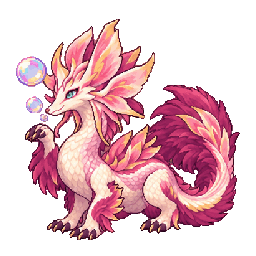
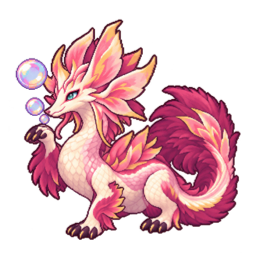
🐛 fix: 修正泡狐龍與冰呪龍動畫的多餘前腳

Changed region(s): [[0.0625, 0.0625, 0.9375, 0.9375]]

diff --git a/docs/artwork-repairs.md b/docs/artwork-repairs.md
@@ -1,0 +1,62 @@
+# Artwork repairs
+
+## 2026-10-22 — duplicate forelegs
+
+Reviewed all 96 source frames (8 monsters × 3 actions × 4 frames). Fixed duplicated grounded
+forelegs in Mizutsune's four working frames and Velkhana's third waiting frame. The other
+91 frames were retained after visual inspection.
+
+The five edits used the built-in image generation tool with the existing frames as edit targets.
+Outputs were resampled to 256 × 256 with alpha preserved, aligned to the original visible height
+and ground baseline. Frame counts, timing, and character scale metadata remain unchanged.
+
+### Prompts
+
+#### `Resources/Characters/mizutsune/working/0.png`
+
+```text
+Use case: precise-object-edit
+Asset type: a corrected single animation frame for an existing pixel-art desktop pet
+Input image 1 is the EDIT TARGET: Mizutsune working frame 0. Input image 2 is an ANATOMY REFERENCE ONLY: the same character with the correct lifted-foreleg anatomy.
+Task: Correct ONLY the duplicated front leg in image 1. The left foreleg is already raised beside the mouth. The erroneous extra grounded foreleg is still visible underneath the left side of the chest, with a small planted foot to the LEFT of the large nearer planted forepaw. Delete that obsolete lower leg and its three-clawed ground foot, exposing transparent background. In the 256 x 256 input this erroneous leg/foot is roughly x=46..79, y=188..234. Match the clean two-foreleg anatomy of image 2: ONE forepaw raised beside the face, ONE forepaw planted at the bottom center with the pink fin, and the hind legs remain at the rear.
+Strict invariants: keep the exact target image's face, eyes, mouth, crest, whiskers, pink/cream/yellow colors, pixel-art texture, neck, back, curled tail, raised arm, existing planted nearer foreleg, rear haunch and rear foot, and BOTH bubbles completely unchanged. Keep the same pose, silhouette extent, scale, canvas position, and baseline. Do not import the different head pose or missing bubbles from image 2. Preserve transparency. Do not add a fourth visible paw or substitute a new foot in the deleted space. Only delete the duplicated foreleg and clean its junction to the chest. No text, no labels, no borders, no background, no ground shadow. Return exactly one square transparent sprite matching image 1's framing, ideally 256 x 256.
+```
+
+#### `Resources/Characters/mizutsune/working/1.png`
+
+```text
+Use case: precise-object-edit
+Asset type: a corrected single animation frame for an existing pixel-art desktop pet
+Input image 1 is the EDIT TARGET: Mizutsune working frame 1. Input image 2 is an ANATOMY REFERENCE ONLY: the same character with the correct lifted-foreleg anatomy.
+Task: Correct ONLY the duplicated front leg in image 1. Preserve the distinctive bubble sizes and positions of this target frame exactly. The left foreleg is already raised beside the mouth. The erroneous extra grounded foreleg is still visible underneath the left side of the chest, with a small planted foot to the LEFT of the large nearer planted forepaw. Delete that obsolete lower leg and its three-clawed ground foot, exposing transparent background. In the 256 x 256 input this erroneous leg/foot is roughly x=46..79, y=188..234. Match the clean two-foreleg anatomy of image 2: ONE forepaw raised beside the face, ONE forepaw planted at the bottom center with the pink fin, and the hind legs remain at the rear.
+Strict invariants: keep the exact target image's face, eyes, mouth, crest, whiskers, pink/cream/yellow colors, pixel-art texture, neck, back, curled tail, raised arm, existing planted nearer foreleg, rear haunch and rear foot, and ALL original bubbles or sparkles completely unchanged. Keep the same pose, silhouette extent, scale, canvas position, and baseline. Do not import the different head pose or missing bubbles from image 2. Preserve transparency. Do not add a fourth visible paw or substitute a new foot in the deleted space. Only delete the duplicated foreleg and clean its junction to the chest. No text, no labels, no borders, no background, no ground shadow. Return exactly one square transparent sprite matching image 1's framing, ideally 256 x 256.
+```
+
+#### `Resources/Characters/mizutsune/working/2.png`
+
+```text
+Use case: precise-object-edit
+Asset type: a corrected single animation frame for an existing pixel-art desktop pet
+Input image 1 is the EDIT TARGET: Mizutsune working frame 2. Input image 2 is an ANATOMY REFERENCE ONLY: the same character with the correct lifted-foreleg anatomy.
+Task: Correct ONLY the duplicated front leg in image 1. Preserve the distinctive bubble sizes and positions of this target frame exactly. The left foreleg is already raised beside the mouth. The erroneous extra grounded foreleg is still visible underneath the left side of the chest, with a small planted foot to the LEFT of the large nearer planted forepaw. Delete that obsolete lower leg and its three-clawed ground foot, exposing transparent background. In the 256 x 256 input this erroneous leg/foot is roughly x=46..79, y=188..234. Match the clean two-foreleg anatomy of image 2: ONE forepaw raised beside the face, ONE forepaw planted at the bottom center with the pink fin, and the hind legs remain at the rear.
+Strict invariants: keep the exact target image's face, eyes, mouth, crest, whiskers, pink/cream/yellow colors, pixel-art texture, neck, back, curled tail, raised arm, existing planted nearer foreleg, rear haunch and rear foot, and ALL original bubbles or sparkles completely unchanged. Keep the same pose, silhouette extent, scale, canvas position, and baseline. Do not import the different head pose or missing bubbles from image 2. Preserve transparency. Do not add a fourth visible paw or substitute a new foot in the deleted space. Only delete the duplicated foreleg and clean its junction to the chest. No text, no labels, no borders, no background, no ground shadow. Return exactly one square transparent sprite matching image 1's framing, ideally 256 x 256.
+```
+
+#### `Resources/Characters/mizutsune/working/3.png`
+
+```text
+Use case: precise-object-edit
+Asset type: a corrected single animation frame for an existing pixel-art desktop pet
+Input image 1 is the EDIT TARGET: Mizutsune working frame 3. Input image 2 is an ANATOMY REFERENCE ONLY: the same character with the correct lifted-foreleg anatomy.
+Task: Correct ONLY the duplicated front leg in image 1. Preserve the distinctive bubble sizes and positions of this target frame exactly. The left foreleg is already raised beside the mouth. The erroneous extra grounded foreleg is still visible underneath the left side of the chest, with a small planted foot to the LEFT of the large nearer planted forepaw. Delete that obsolete lower leg and its three-clawed ground foot, exposing transparent background. In the 256 x 256 input this erroneous leg/foot is roughly x=46..79, y=188..234. Match the clean two-foreleg anatomy of image 2: ONE forepaw raised beside the face, ONE forepaw planted at the bottom center with the pink fin, and the hind legs remain at the rear.
+Strict invariants: keep the exact target image's face, eyes, mouth, crest, whiskers, pink/cream/yellow colors, pixel-art texture, neck, back, curled tail, raised arm, existing planted nearer foreleg, rear haunch and rear foot, and ALL original bubbles or sparkles completely unchanged. Keep the same pose, silhouette extent, scale, canvas position, and baseline. Do not import the different head pose or missing bubbles from image 2. Preserve transparency. Do not add a fourth visible paw or substitute a new foot in the deleted space. Only delete the duplicated foreleg and clean its junction to the chest. No text, no labels, no borders, no background, no ground shadow. Return exactly one square transparent sprite matching image 1's framing, ideally 256 x 256.
+```
+
+#### `Resources/Characters/velkhana/waiting/2.png`
+
+```text
+Use case: precise-object-edit
+Asset type: a single repaired transparent pixel-art animation frame
+Input image is the EDIT TARGET, a chibi Velkhana from Monster Hunter, waiting frame 2. Correct ONLY the duplicate front leg. The forepaw on the left side of the chest is already raised beside the face, but the old lower foreleg and its foot are still planted below it at the far left of the ground. There are five visible legs as a result. DELETE that obsolete dark blue diagonal leg and planted paw at approximately x=39..69, y=198..237 of the original 256x256 image, exposing transparent background. Retain the raised forepaw at x=38..60,y=173..198; retain the nearer planted foreleg with ice plates at x=72..101,y=185..238; retain BOTH hind legs underneath the hips at x=110..157,y=218..239. The result has exactly two forelegs (one raised, one planted), two hind legs and the two existing wings. Do not create any replacement paw or shadow inside the cleared gap.
+Strict invariants: preserve the exact face, head, icy crest, wing shapes, blue-white palette, pixel-art texture, posture, tail, all non-erroneous legs, image framing, silhouette extent, scale, ground baseline and position. Only remove the duplicate lower foreleg and clean the small chest junction. No restyling or new animation pose. No text, border, ground, labels, or backdrop. Preserve genuine alpha transparency. Return exactly one square sprite with the same framing, ideally 256x256.
+```
